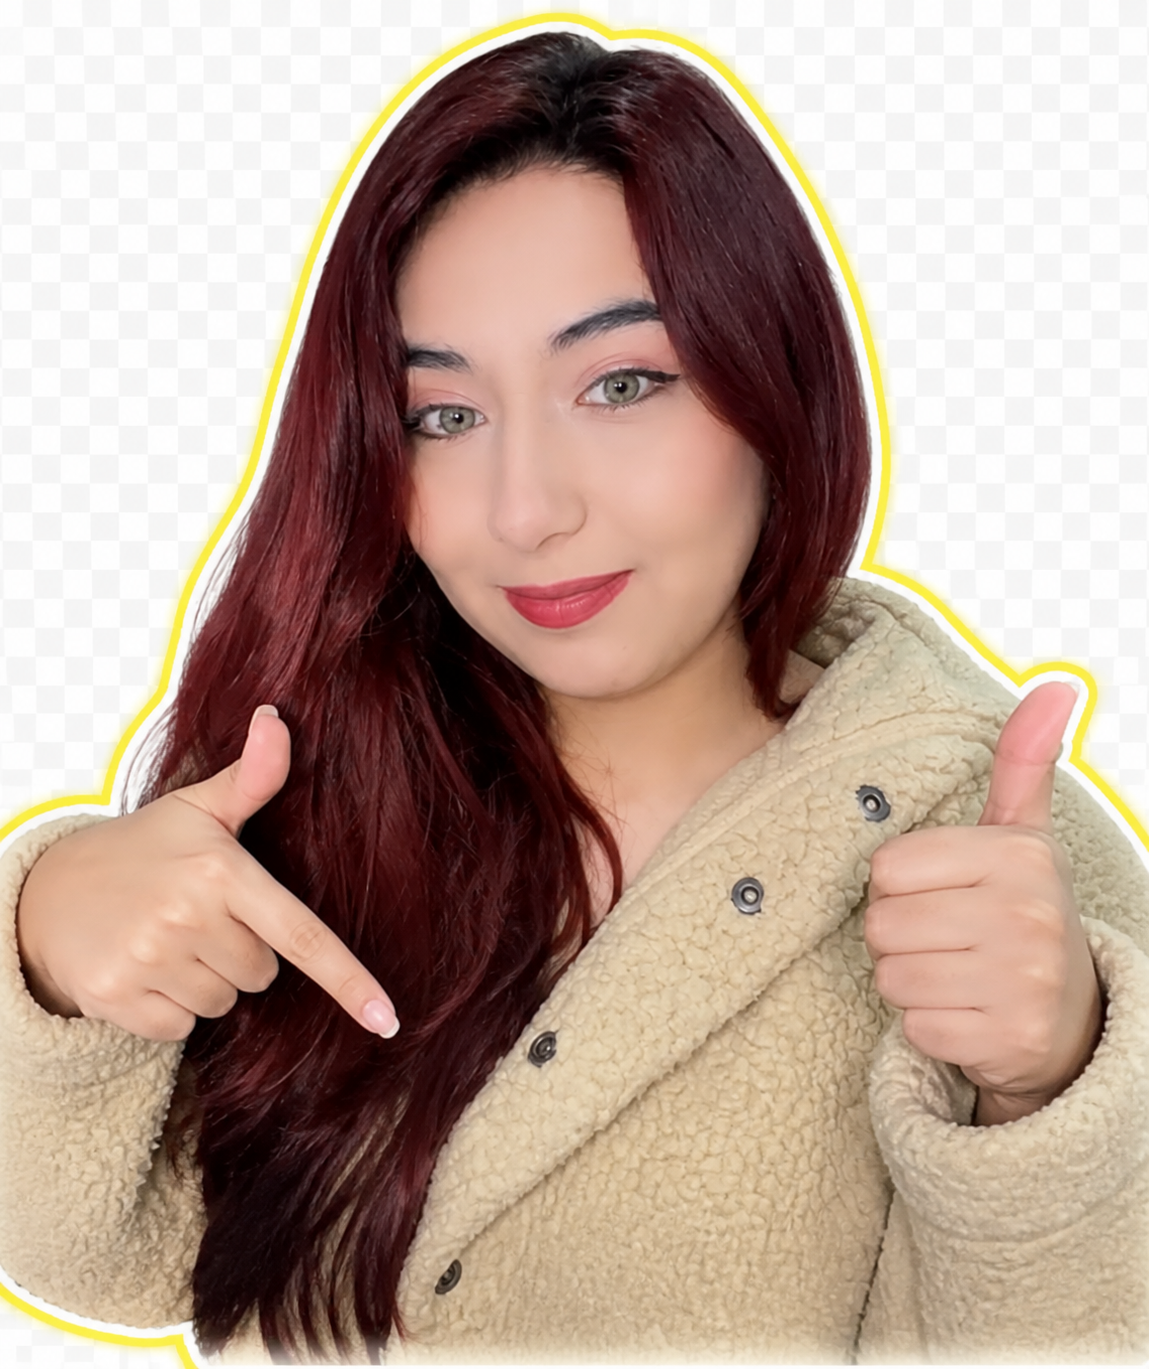
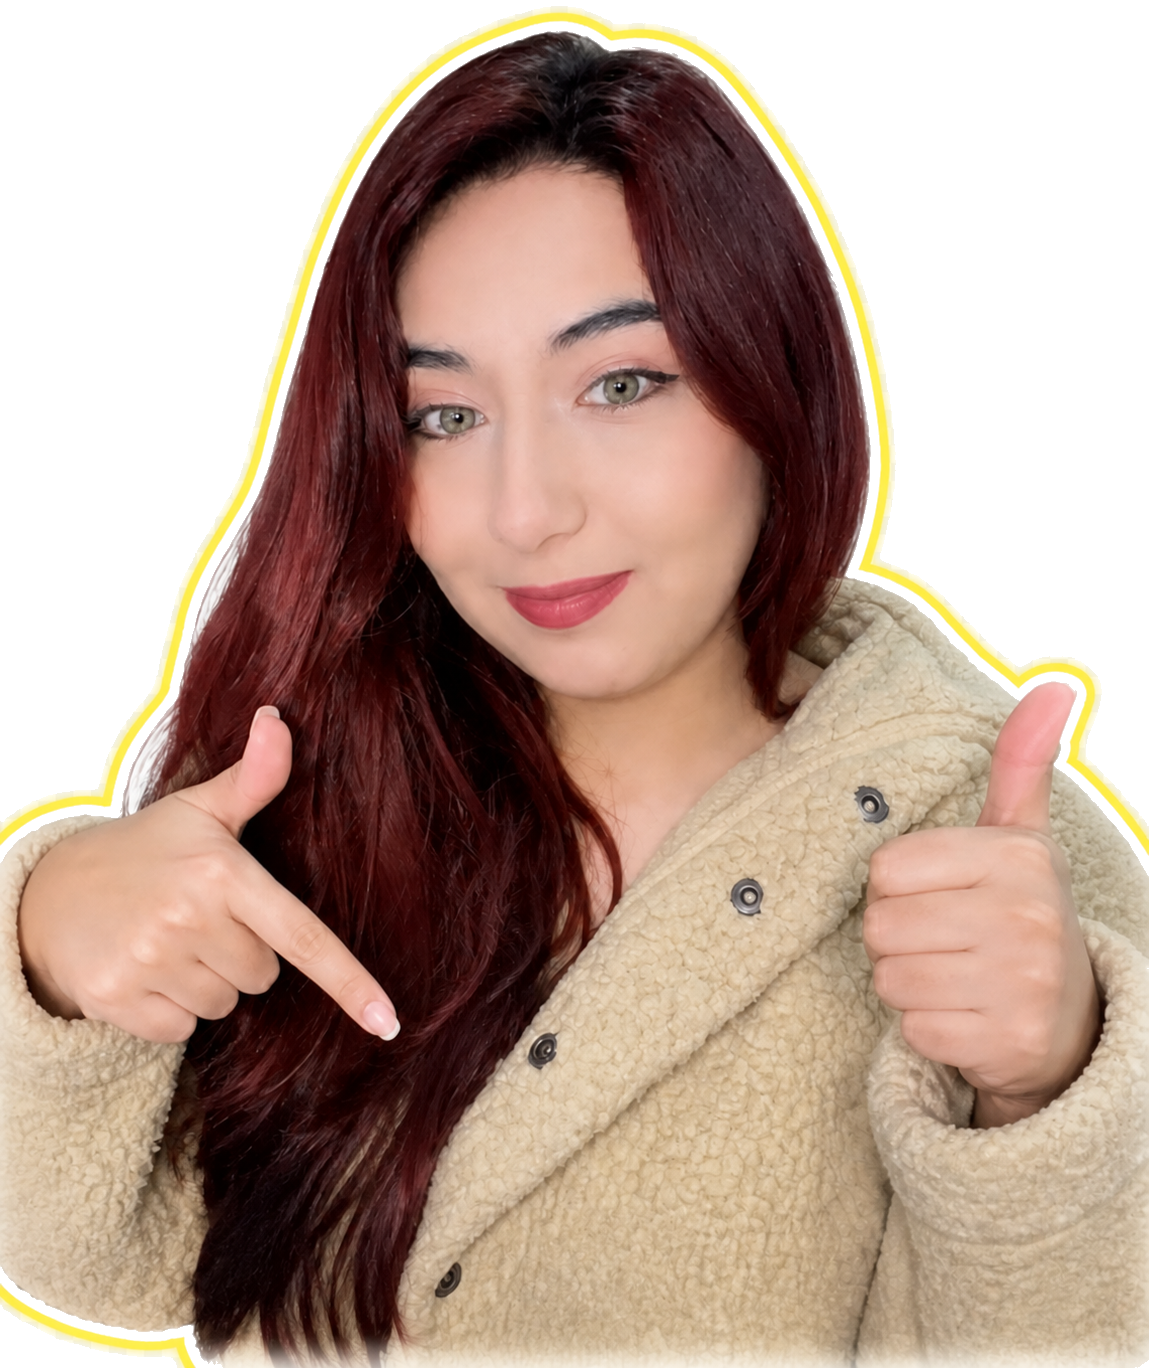
Update affiliate links and transparent Camidevai sticker

diff --git a/app/products.ts b/app/products.ts
@@ -3,10 +3,10 @@ export type Product = { id: string; name: string; brand: string; category: strin
 // Para agregar productos, copia uno de estos bloques y cambia sus datos.
 // Las categorías nuevas aparecen automáticamente en los filtros.
 export const products: Product[] = [
-  { id: 'arzopa-s1', name: 'Monitor portátil S1 15,6” con parlante 1080p', brand: 'Arzopa', category: 'Monitores', oldPrice: 199990, price: 79990, discount: 60, image: '/products/arzopa.png', url: 'https://www.mercadolibre.cl/monitor-arzopa-portatil-s1-156-con-parlante-1080p-color-negro/p/MLC45801077?pdp_filters=deal%3AMLC1675225-1', featured: true },
-  { id: 'caixun-c27f4f', name: 'Monitor gamer plano 27” FHD IPS 165Hz C27F4F', brand: 'Caixun', category: 'Monitores', oldPrice: 259990, price: 114990, discount: 55, image: '/products/caixun.png', url: 'https://www.mercadolibre.cl/monitor-gamer-plano-caixun-27-fhd-ips-165hz-c27f4f/p/MLC42081391?pdp_filters=deal%3AMLC1675225-1' },
-  { id: 'anker-hub', name: 'Adaptador USB-C Hub 5 en 1 HDMI 100W', brand: 'Anker', category: 'Accesorios', oldPrice: 29990, price: 18990, discount: 36, image: '/products/anker.png', url: 'https://www.mercadolibre.cl/anker-adaptador-usb-c-hub-5-en-1-hdmi-100w-para-mac-windows-color-gris/p/MLC51066267?pdp_filters=deal%3AMLC1675225-1' },
-  { id: 'flashnote-1tb', name: 'Disco duro externo 1TB USB 3.0 para PC, PS4 y Xbox', brand: 'FLASHNOTE', category: 'Almacenamiento', oldPrice: 99990, price: 58190, discount: 41, image: '/products/flashnote.png', url: 'https://www.mercadolibre.cl/disco-duro-externo-flashnote-1tb-usb-30-compatible-pc-ps4-xbox-negro/p/MLC48616644?pdp_filters=deal%3AMLC1675225-1' },
-  { id: 'hyperx-cloud-flight-2', name: 'Audífonos gaming inalámbricos Cloud Flight 2', brand: 'HyperX', category: 'Audio', oldPrice: 139990, price: 96400, discount: 31, image: '/products/hyperx.png', url: 'https://www.mercadolibre.cl/auriculares-gaming-inalambricos-hyperx-cloud-flight-2-negro/p/MLC75853537?pdp_filters=deal%3AMLC1675225-1' },
-  { id: 'aula-f75', name: 'Teclado gamer mecánico español inalámbrico F75 75% RGB', brand: 'Aula', category: 'Teclados', oldPrice: 78000, price: 59950, discount: 23, image: '/products/aula.png', url: 'https://www.mercadolibre.cl/teclado-gamer-mecanico-espanol-inalambrico-aula-f75-75-rgb-switches-reaper-pre-lubricados24ghzusb-cbt-ergonomico-compatible-con-pcmacpsxboxswitch-wooting-one/p/MLC55751546?pdp_filters=deal%3AMLC1675225-1' },
+  { id: 'arzopa-s1', name: 'Monitor portátil S1 15,6” con parlante 1080p', brand: 'Arzopa', category: 'Monitores', oldPrice: 199990, price: 79990, discount: 60, image: '/products/arzopa.png', url: 'https://meli.la/1hbYQg8', featured: true },
+  { id: 'caixun-c27f4f', name: 'Monitor gamer plano 27” FHD IPS 165Hz C27F4F', brand: 'Caixun', category: 'Monitores', oldPrice: 259990, price: 114990, discount: 55, image: '/products/caixun.png', url: 'https://meli.la/1mbrSsT' },
+  { id: 'anker-hub', name: 'Adaptador USB-C Hub 5 en 1 HDMI 100W', brand: 'Anker', category: 'Accesorios', oldPrice: 29990, price: 18990, discount: 36, image: '/products/anker.png', url: 'https://meli.la/1vBK2KG' },
+  { id: 'flashnote-1tb', name: 'Disco duro externo 1TB USB 3.0 para PC, PS4 y Xbox', brand: 'FLASHNOTE', category: 'Almacenamiento', oldPrice: 99990, price: 58190, discount: 41, image: '/products/flashnote.png', url: 'https://meli.la/2XX5trR' },
+  { id: 'hyperx-cloud-flight-2', name: 'Audífonos gaming inalámbricos Cloud Flight 2', brand: 'HyperX', category: 'Audio', oldPrice: 139990, price: 96400, discount: 31, image: '/products/hyperx.png', url: 'https://meli.la/1vkLR5m' },
+  { id: 'aula-f75', name: 'Teclado gamer mecánico español inalámbrico F75 75% RGB', brand: 'Aula', category: 'Teclados', oldPrice: 78000, price: 59950, discount: 23, image: '/products/aula.png', url: 'https://meli.la/2m5TEqo' },
 ];

diff --git a/app/page.tsx b/app/page.tsx
@@ -81,10 +81,10 @@ export default function Home() {
           <div className="empty-state"><span>🔎</span><h3>No encontramos ese producto</h3><p>Prueba con otra palabra o selecciona “Todos”.</p><button type="button" onClick={() => { setQuery(''); setCategory('Todos'); }}>Limpiar filtros</button></div>
         )}
 
-        <aside className="more-deals"><div><span>¿Quieres seguir buscando?</span><h2>Hay muchas más ofertas esperando por ti.</h2></div><a href="https://listado.mercadolibre.cl/computacion/_Container_black-week-agosto-2026" target="_blank" rel="noopener noreferrer sponsored">Explorar más descuentos <ArrowRight size={19} /></a></aside>
+        <aside className="more-deals"><div><span>¿Quieres seguir buscando?</span><h2>Hay muchas más ofertas esperando por ti.</h2></div><a href="https://mercadolibre.com/sec/1gho3HX" target="_blank" rel="noopener noreferrer sponsored">Ver la lista completa <ArrowRight size={19} /></a></aside>
       </section>
 
-      <footer><a className="brand" href="#inicio"><span className="brand-mark">C</span><span>Camidevai <strong>elige</strong></span></a><p>Selección independiente de ofertas. Los precios y la disponibilidad pueden cambiar en Mercado Libre.</p><a href="#inicio">Volver arriba ↑</a></footer>
+      <footer><a className="brand" href="#inicio"><span className="brand-mark">C</span><span>Camidevai <strong>elige</strong></span></a><p>Selección independiente de ofertas con enlaces de afiliada. Puedo recibir una comisión si compras, sin costo adicional para ti. Los precios y la disponibilidad pueden cambiar en Mercado Libre.</p><a href="#inicio">Volver arriba ↑</a></footer>
     </main>
   );
 }
